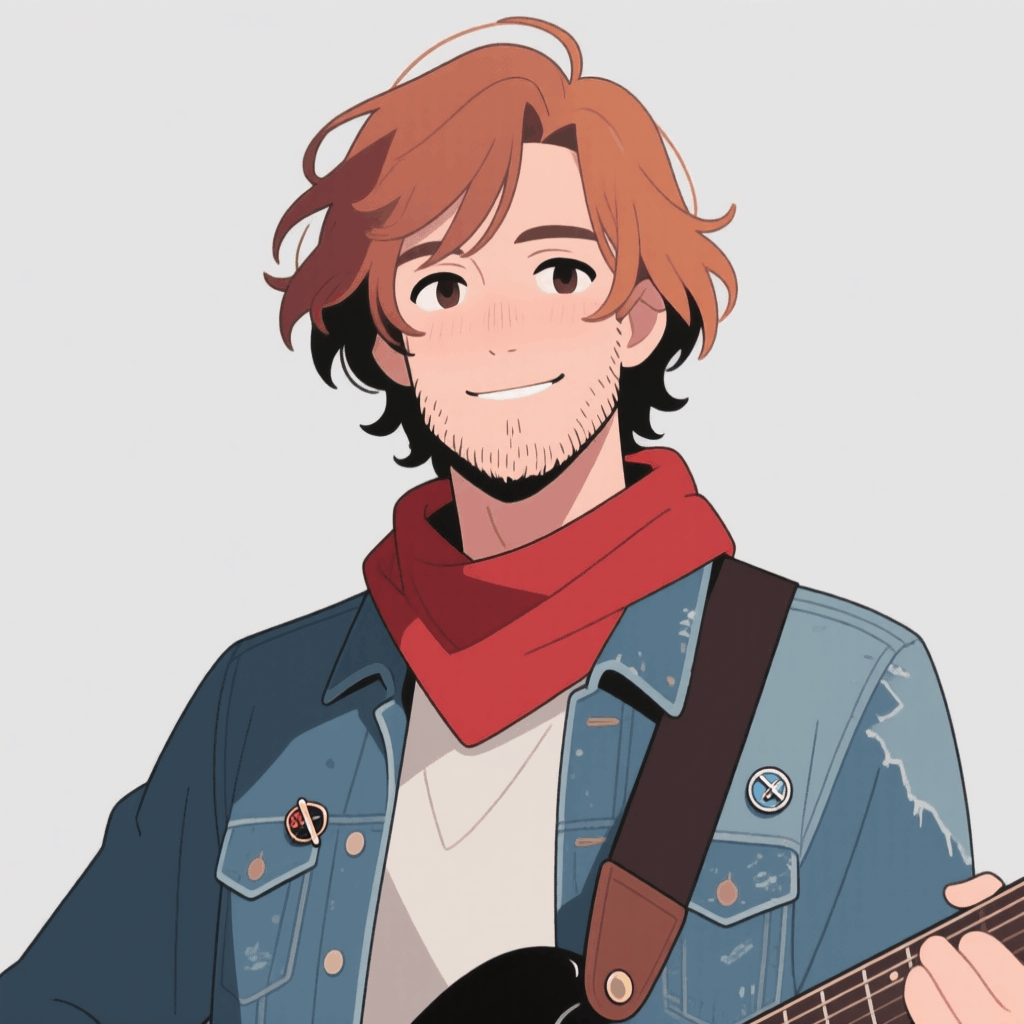
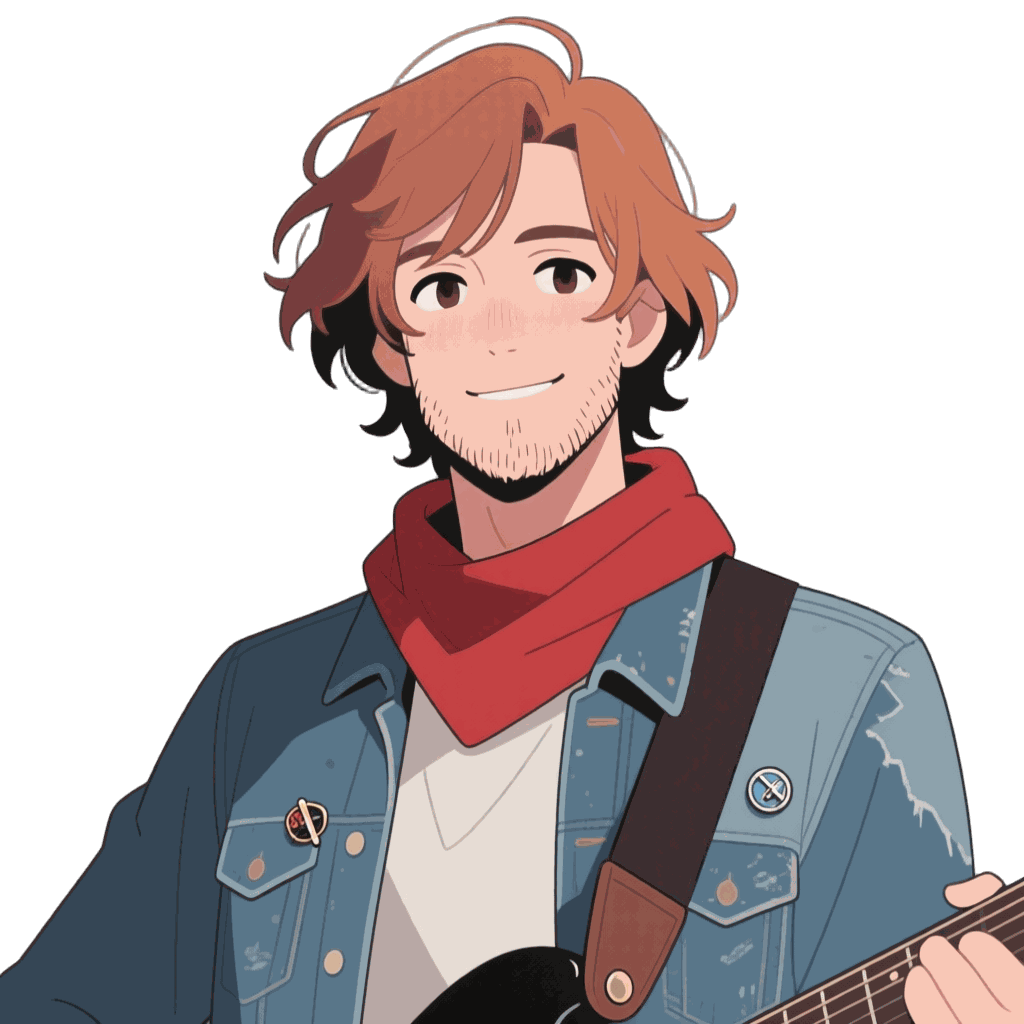
art: NPC with alpha, three regenerated NYC postcards
NPC portraits and busts get transparent backgrounds (BiRefNet-general, MIT).
carnegie_hall, federal_hall and met_museum regenerated without facade text;
amnh, guggenheim, msg and old_new_synagogue still pending.

Claude-Session: https://claude.ai/code/session_01RgN3TadH36XDtTN24DnPCr

diff --git a/tools/art/run_rmbg.py b/tools/art/run_rmbg.py
@@ -1,0 +1,70 @@
+#!/usr/bin/env python3
+"""Odstranění pozadí (BiRefNet-general, MIT/Apache) přes ComfyUI-RMBG. Vstupní PNG zkopíruje do input/,
+výsledek (RGBA) uloží do --out se stejnou relativní cestou. Hotové přeskakuje.
+  python3 run_rmbg.py --src png/npc --out alpha/npc --comfy-input /path/to/ComfyUI/input
+"""
+import argparse, json, os, shutil, sys, time, urllib.parse, urllib.request
+
+BASE = "http://127.0.0.1:8188"
+
+
+def call(path, body=None):
+    req = urllib.request.Request(BASE + path, data=json.dumps(body).encode() if body else None,
+                                 headers={"Content-Type": "application/json"})
+    with urllib.request.urlopen(req, timeout=120) as r:
+        return json.loads(r.read())
+
+
+def main():
+    ap = argparse.ArgumentParser()
+    ap.add_argument("--src", required=True)
+    ap.add_argument("--out", required=True)
+    ap.add_argument("--comfy-input", required=True)
+    a = ap.parse_args()
+    files = sorted(os.path.relpath(os.path.join(d, f), a.src) for d, _, fs in os.walk(a.src) for f in fs if f.endswith(".png"))
+    todo = [f for f in files if not os.path.exists(os.path.join(a.out, f))]
+    print(json.dumps({"todo": len(todo), "skipped": len(files) - len(todo)}), flush=True)
+    stage = os.path.join(a.comfy_input, "gtt_rmbg")
+    os.makedirs(stage, exist_ok=True)
+    ok = failed = 0
+    for rel in todo:
+        flat = rel.replace("/", "_")
+        shutil.copy(os.path.join(a.src, rel), os.path.join(stage, flat))
+        wf = {
+            "i": {"class_type": "LoadImage", "inputs": {"image": f"gtt_rmbg/{flat}"}},
+            "r": {"class_type": "BiRefNetRMBG", "inputs": {"image": ["i", 0], "model": "BiRefNet-general",
+                  "sensitivity": 1.0, "mask_blur": 0, "mask_offset": 0, "invert_output": False,
+                  "refine_foreground": True, "background": "Alpha"}},
+            "s": {"class_type": "SaveImage", "inputs": {"images": ["r", 0], "filename_prefix": "gtt_rmbg/" + flat[:-4]}},
+        }
+        try:
+            pid = call("/prompt", {"prompt": wf})["prompt_id"]
+            t0 = time.time()
+            while True:
+                h = call("/history/" + pid).get(pid)
+                if h or time.time() - t0 > 600:
+                    break
+                time.sleep(0.5)
+            imgs = [i for o in (h or {}).get("outputs", {}).values() for i in o.get("images", [])]
+            if not imgs:
+                raise RuntimeError(json.dumps((h or {}).get("status")))
+            i = imgs[0]
+            q = urllib.parse.urlencode({"filename": i["filename"], "subfolder": i["subfolder"], "type": i["type"]})
+            dst = os.path.join(a.out, rel)
+            os.makedirs(os.path.dirname(dst), exist_ok=True)
+            with urllib.request.urlopen(BASE + "/view?" + q, timeout=60) as r, open(dst + ".tmp", "wb") as f:
+                f.write(r.read())
+            os.replace(dst + ".tmp", dst)
+            ok += 1
+            print(json.dumps({"done": rel}), flush=True)
+        except Exception as e:
+            failed += 1
+            print(json.dumps({"name": rel, "error": str(e)}), flush=True)
+        finally:
+            os.remove(os.path.join(stage, flat))
+    print(json.dumps({"images": {"ok": ok, "failed": failed}}), flush=True)
+    sys.exit(1 if failed else 0)
+
+
+if __name__ == "__main__":
+    main()

diff --git a/docs/art-requests.md b/docs/art-requests.md
@@ -116,9 +116,8 @@ Navíc provoz (bez jména, náhodný lak): 6 generických aut `assets/cars/traff
 - **Style board v1**, 22. 11. 2026: Ol1n vybral NYC = A (plochý vektor), Praha = C (risograf).
   Sprity, postavy a UI sdílené ve stylu A. Paleta a parametry risografu předány zvlášť (tokens, tuning).
 - `assets/npc/<id>.png` (= `_neutral`), `<id>_happy|_neutral|_annoyed.png` 1024², `<id>_bust.png`
-  768×1280 (výraz happy), 22. 11. 2026, všech 6 postav. Pozadí ploché světle šedé, **alfa zatím chybí**
-  (doplní se odstraněním pozadí na stejných obrázcích).
-- `assets/postcards/nyc/*.png`, 22. 11. 2026, 28 z 34. Chybí (přegenerovávají se kvůli textu na
-  budovách): amnh, carnegie_hall, guggenheim, met_museum, msg, federal_hall.
+  768×1280 (výraz happy), 22. 11. 2026, všech 6 postav, průhledné pozadí (BiRefNet-general, `tools/art/run_rmbg.py`).
+- `assets/postcards/nyc/*.png`, 22. 11. 2026, 31 z 34. Chybí (přegenerovávají se kvůli textu na
+  budovách): amnh, guggenheim, msg.
 - `assets/postcards/prague/*.png`, 22. 11. 2026, 19 z 20. Chybí old_new_synagogue (přegenerovává se).
 - Postup: `tools/art/make_batch1.py` (prompty, seedy) + `tools/art/run_board.py` (workflow ComfyUI).

diff --git a/assets/LICENSES.md b/assets/LICENSES.md
@@ -6,7 +6,8 @@ není uvedeno jinak. Reprodukce: `tools/art/` (prompty, seedy, parametry workflo
 | Cesta | Model / nástroj | Licence modelu | Licence výstupu | Poznámka |
 |---|---|---|---|---|
 | `npc/*.png` | Qwen-Image (fp8), text encoder Qwen2.5-VL 7B, ComfyUI | Apache 2.0 | vlastní dílo projektu GTT | várka 1, 22. 11. 2026, seedy 101–106 (jeden na postavu) |
-| `postcards/nyc/*.png` | Qwen-Image (fp8), ComfyUI | Apache 2.0 | vlastní dílo projektu GTT | várka 1, seed 201, styl A, ořez 1080×1350, 256 barev |
+| `npc/*.png` (alfa) | BiRefNet-general přes ComfyUI-RMBG | MIT | vlastní dílo projektu GTT | odstranění pozadí, refine_foreground |
+| `postcards/nyc/*.png` | Qwen-Image (fp8), ComfyUI | Apache 2.0 | vlastní dílo projektu GTT | várka 1, seed 201 (carnegie_hall 203, federal_hall a met_museum 202), styl A, ořez 1080×1350, 256 barev |
 | `postcards/prague/*.png` | Qwen-Image (fp8), ComfyUI | Apache 2.0 | vlastní dílo projektu GTT | várka 1, seed 201, styl C, ořez 1080×1350, 256 barev |
 
 Nepoužívat pro herní assety: modely s nekomerční licencí (např. FLUX.1-dev, RMBG-2.0) a modely
